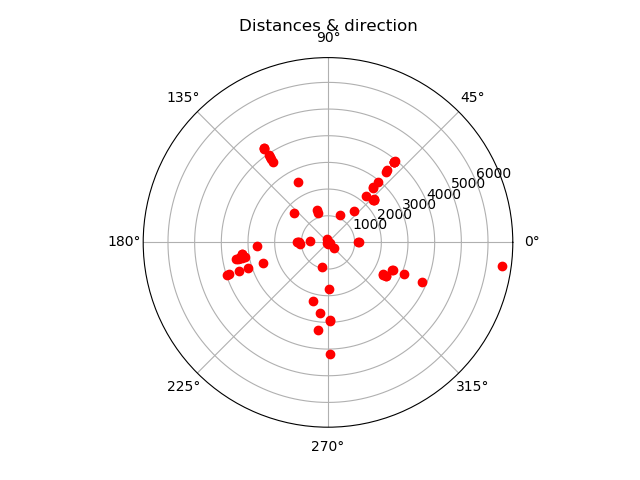
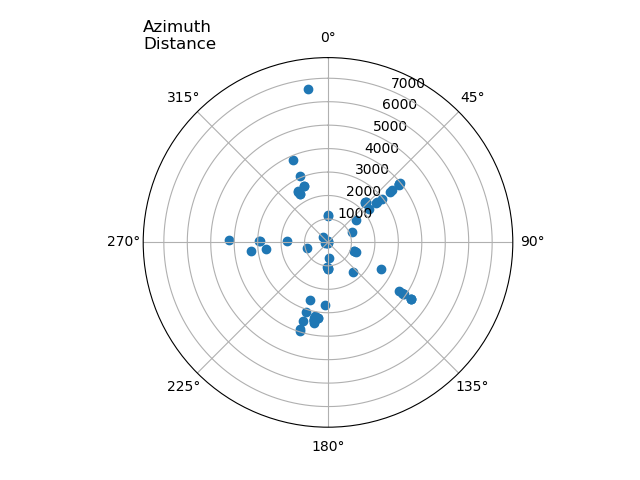
Azimut axis

diff --git a/leaf.py b/leaf.py
@@ -74,9 +74,14 @@ def azimuth(wspr_data):
         elements.append((azim, dist))
 
     az, el = zip(*elements)
-    plt.polar(az, el, 'ro')
 
-    plt.title('Distances & direction')
+    fig = plt.figure()
+    ax = fig.add_subplot(111, polar=True)
+    ax.set_theta_zero_location("N")
+    ax.set_theta_direction(-1)
+
+    ax.scatter(az, el)
+    ax.set_title('Azimuth\nDistance', loc='left')
     plt.savefig('graphs/azimuth.png')
     plt.close()
 
